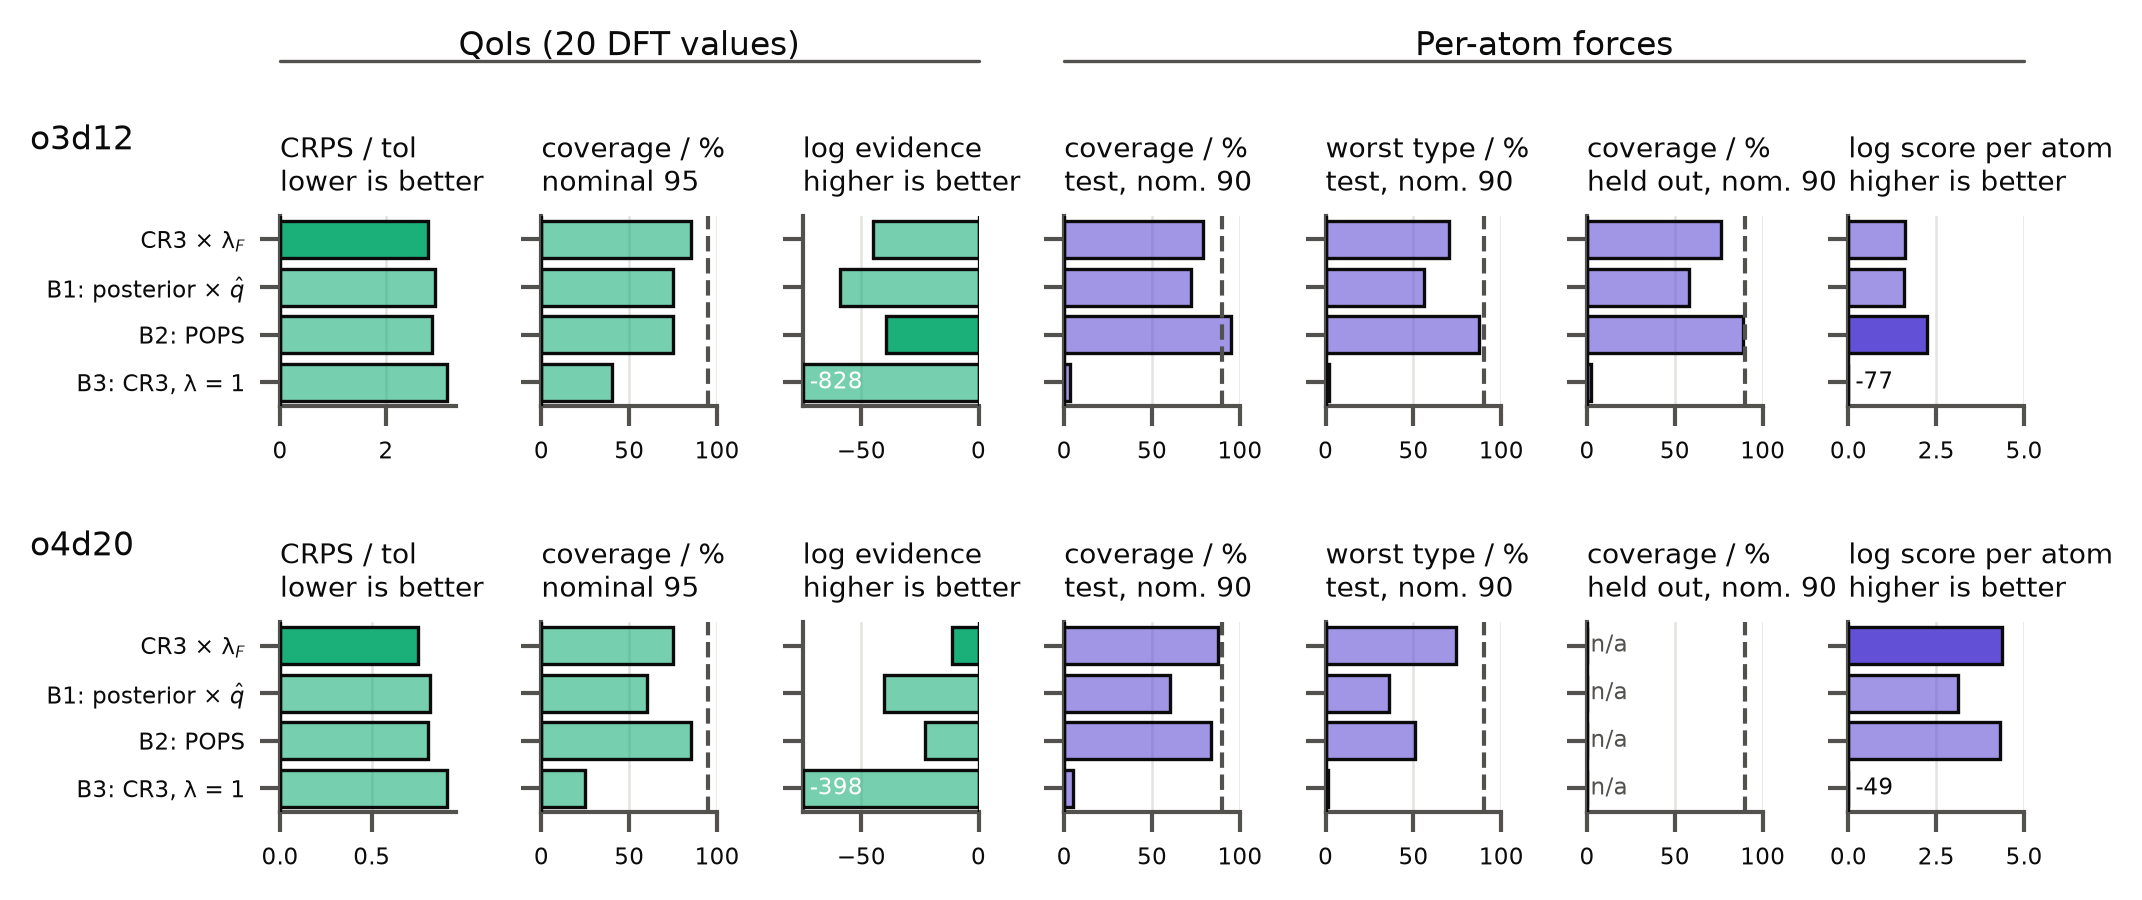
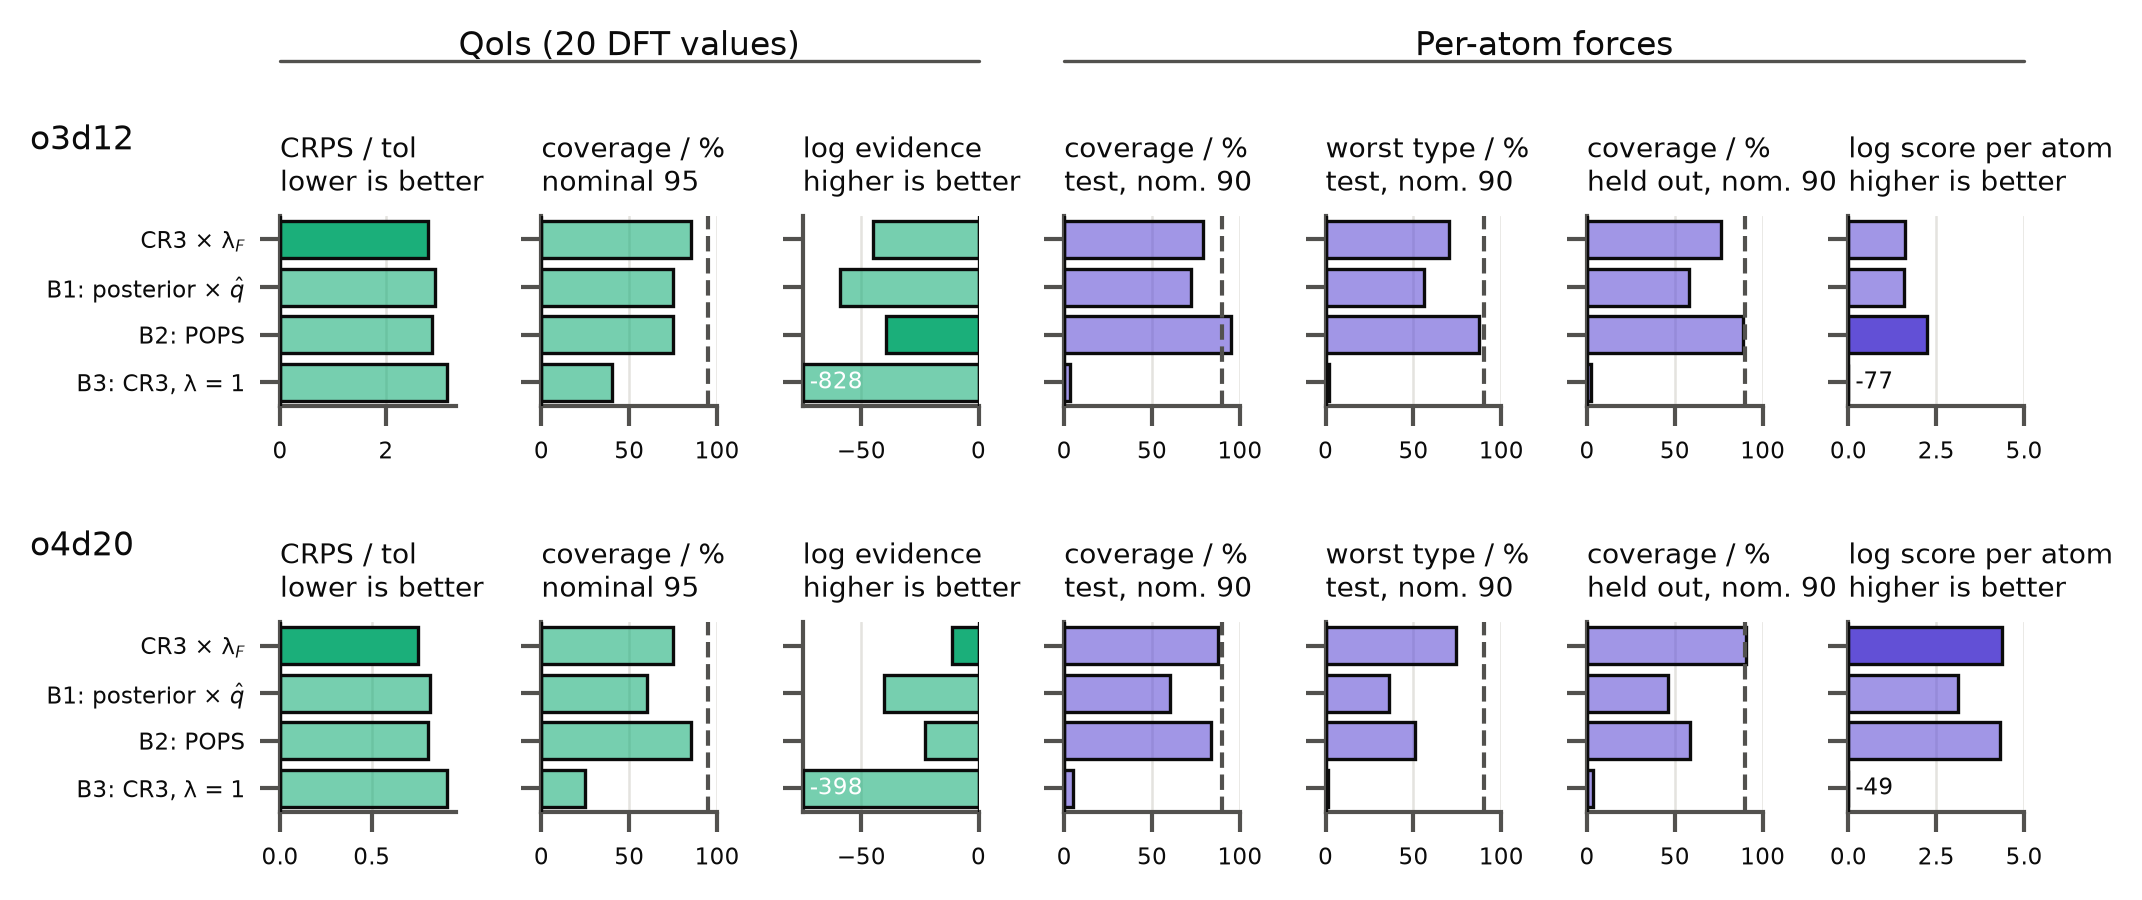
feat(si-qoi-uq): o4d20 out-of-distribution force methods (POPS refit); B2 under-covers held-out o4d20
The o4d20 POPS box refitted without cracks and screw dislocations (ridge 1e-8,
as in distribution) covers 0.59 of held-out atoms at 90 % against 0.91 for
CR3 x lam_F (o3d12: 0.89 vs 0.76). Section 3.4 and the discussion now state
the disagreement between models; Fig. 4 filled in.

Changed region(s): [[0.7395, 0.6844, 0.8319, 0.9022]]

diff --git a/bench/si_qoi_uq/artifact/paper.py b/bench/si_qoi_uq/artifact/paper.py
@@ -972,6 +972,10 @@ def fmv(m, st, k, fld="coverage", nd=2):
     """Per-atom force score of a propagation method (analysis/force_methods.py): st "id" (test split) or "ood" (held out)."""
     v = _fm.get(m, {}).get(st, {}).get("all", {}).get(k, {}).get(fld)
     return "–" if v is None else f"{v:.{nd}f}"
+def fmt_t(m, t, k, fld="coverage", nd=2):
+    """As fmv, on one held-out configuration type (force_methods_<m>.json ood.per_type)."""
+    v = _fm.get(m, {}).get("ood", {}).get("per_type", {}).get(t, {}).get(k, {}).get(fld)
+    return "–" if v is None else f"{v:.{nd}f}"
 sec("results", "3.4  Coverage and sharpness", f"""
 <div class="wrap"><table><caption>Table 3. Coverage of the DFT values (count [95 % credible interval of the coverage probability]) and sharpness, for the four methods of Figures 1 and 1b.</caption>
 <thead><tr><th>model</th><th>method</th><th>n</th><th>68 %</th><th>95 %</th><th>RMS z</th><th>median σ/tol</th><th>CRPS/tol</th></tr></thead>
@@ -1012,10 +1016,14 @@ phase energies, which are strongly nonlinear in θ at λ<sub>F</sub> (Section 3.
 <p>Figure 10 compares the four methods on both models. On the QoIs the headline has the lowest CRPS/tol for both models
 and the highest log evidence for o4d20; for o3d12, B2 has the higher evidence (Table 4). The per-atom forces rank the
 methods differently. B2's box, read as a Gaussian of its covariance, covers """ + fmv("o3d12", "id", "B2") + " and " + fmv("o4d20", "id", "B2") + f""" of the test atoms
-at 90 % (o3d12, o4d20), against """ + fmv("o3d12", "id", "headline") + " and " + fmv("o4d20", "id", "headline") + f""" for the headline, and on the held-out cracks and
-dislocations """ + fmv("o3d12", "ood", "B2") + " and " + fmv("o4d20", "ood", "B2") + f""" against """ + fmv("o3d12", "ood", "headline") + " and " + fmv("o4d20", "ood", "headline") + f""". Its mean log score per test atom
+at 90 % (o3d12, o4d20), against """ + fmv("o3d12", "id", "headline") + " and " + fmv("o4d20", "id", "headline") + f""" for the headline. On the held-out cracks and
+dislocations the two models disagree. For o3d12 B2 covers """ + fmv("o3d12", "ood", "B2") + " against the headline's " + fmv("o3d12", "ood", "headline") + f""", and is higher on every
+held-out type. For o4d20 it covers """ + fmv("o4d20", "ood", "B2") + " against " + fmv("o4d20", "ood", "headline") + f""": """ + fmt_t("o4d20", "crack_110_1-10", "B2") + " and " + fmt_t("o4d20", "crack_111_1-10", "B2") + f""" on the two cracks
+(headline """ + fmt_t("o4d20", "crack_110_1-10", "headline") + " and " + fmt_t("o4d20", "crack_111_1-10", "headline") + f""") and """ + fmt_t("o4d20", "screw_disloc", "B2") + " on the screw dislocations (" + fmt_t("o4d20", "screw_disloc", "headline") + f"""), with the POPS ridge
+selected as in distribution. The held-out mean log scores follow the coverages: """ + fmv("o3d12", "ood", "B2", "log_score", 1) + " against " + fmv("o3d12", "ood", "headline", "log_score", 1) + " nats for o3d12, " + fmv("o4d20", "ood", "B2", "log_score", 1) + " against " + fmv("o4d20", "ood", "headline", "log_score", 1) + f""" for o4d20.
+On the test split B2's mean log score per atom
 is """ + fmv("o3d12", "id", "B2", "log_score", 1) + " and " + fmv("o4d20", "id", "B2", "log_score", 1) + f""" nats, against the headline's """ + fmv("o3d12", "id", "headline", "log_score", 1) + " and " + fmv("o4d20", "id", "headline", "log_score", 1) + f""". B1 under-covers the forces
-in and out of distribution (""" + fmv("o3d12", "id", "B1") + "/" + fmv("o3d12", "ood", "B1") + " and " + fmv("o4d20", "id", "B1") + "/" + fmv("o4d20", "ood", "B1") + f"""), and B3 covers almost no atoms. B2 is clearly weaker in one respect, per configuration type, where it is uneven for o4d20: its lowest per-type coverage is """ + worst_t("o4d20", "B2") + f""", against """ + worst_t("o4d20", "headline") + f""" for the headline (o3d12: """ + worst_t("o3d12", "B2") + " and " + worst_t("o3d12", "headline") + f"""). The headline's
+in and out of distribution (""" + fmv("o3d12", "id", "B1") + "/" + fmv("o3d12", "ood", "B1") + " and " + fmv("o4d20", "id", "B1") + "/" + fmv("o4d20", "ood", "B1") + f"""), and B3 covers almost no atoms. In distribution B2 is also uneven per configuration type for o4d20: its lowest per-type test coverage is """ + worst_t("o4d20", "B2") + f""", against """ + worst_t("o4d20", "headline") + f""" for the headline (o3d12: """ + worst_t("o3d12", "B2") + " and " + worst_t("o3d12", "headline") + f"""). The headline's
 λ<sub>F</sub> and B1's q̂ are fitted on the test split, so their test-split force scores are in sample; on the held-out
 configurations every method is out of sample, with λ<sub>F</sub>, q̂ and the POPS box refitted on the reduced training set by
 the same rules. The headline's λ<sub>F</sub> is the RMS over force components of Section 3.3; the global scale of Table 2c is
@@ -1375,7 +1383,9 @@ quantile on the CR3 shape covers {lm("o3d12", "one_group")} and {lm("o4d20", "on
 o3d12 shortfall is the hold-out transfer of Section 3.2), and holds out of distribution on the cracks for both models and on
 the screw dislocations for o4d20, though not for o3d12 ({ood_v("o3d12", "one_group", "screw_disloc")}); the global force scale on the same
 kind of region covers less ({fb("o3d12", "headline")} and {fb("o4d20", "headline")}), even fitted in sample. The POPS box covers
-{fb("o3d12", "B2")} (o3d12) and {fb("o4d20", "B2")} (o4d20), the latter below nominal and unevenly (per type {fb_types("o4d20", "B2")}), and nothing in its construction aims at a target coverage. Two costs of CR3 remain. It is a sampling variance, so it needs held-out data and a
+{fb("o3d12", "B2")} (o3d12) and {fb("o4d20", "B2")} (o4d20), the latter below nominal and unevenly (per type {fb_types("o4d20", "B2")}), and nothing in its construction aims at a target coverage.
+Refitted without the cracks and dislocations, it covers """ + fmv("o3d12", "ood", "B2") + " of the held-out atoms for o3d12 but " + fmv("o4d20", "ood", "B2") + f""" for o4d20, against
+""" + fmv("o3d12", "ood", "headline") + " and " + fmv("o4d20", "ood", "headline") + f""" for CR3 × λ<sub>F</sub> (Section 3.4). Two costs of CR3 remain. It is a sampling variance, so it needs held-out data and a
 scale; POPS needs neither in principle, although here its ridge was chosen on a hold-out of the training set. And like POPS it cannot see a bias that every configuration of a kind shares (Section 3.8).</p>
 <p>The scale is not unique. The virial scale is about a third larger than the force scale, and using it covers
 {k95("o3d12", "CR3-headline", "lam_V")} QoIs for o3d12 and {k95("o4d20", "CR3-headline", "lam_V")} for o4d20 with wider intervals; its joint evidence is higher than the force scale's for o3d12 and about equal for o4d20. Misspecification depends on the observable, and one could choose the scale by the QoI's physics, the virial scale
